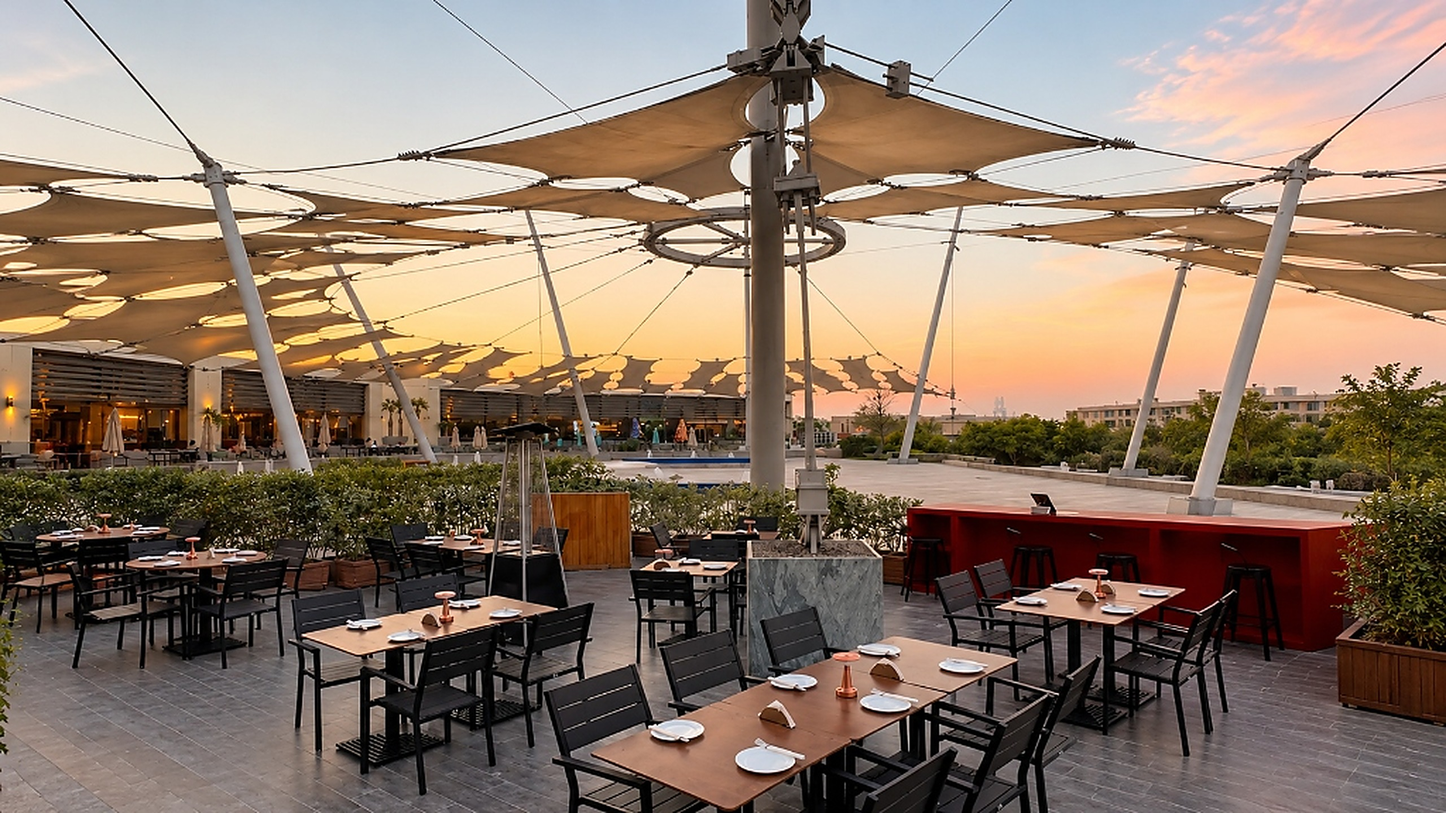
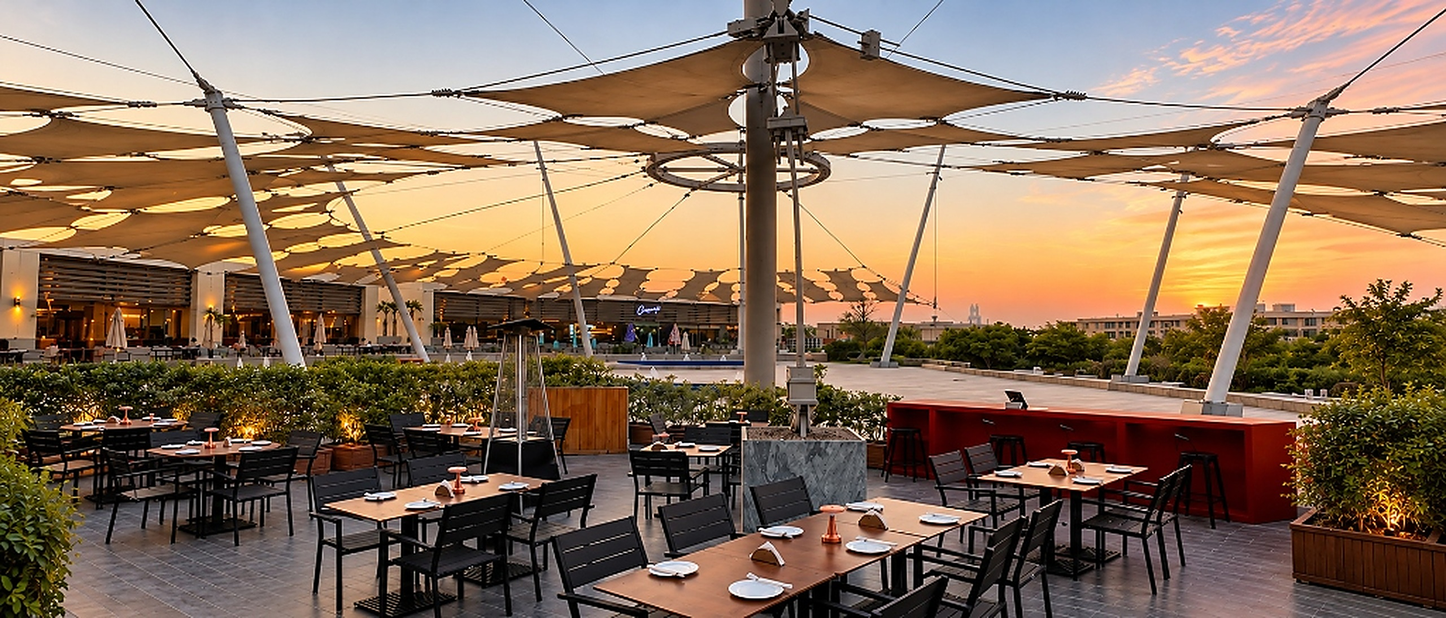
insta feed integration

diff --git a/gallery.html b/gallery.html
@@ -183,7 +183,7 @@
     <section class="relative min-h-[480px] pt-24 pb-12 px-5 bg-black text-[#f5e6c8] flex flex-col items-center">
         <div class="absolute inset-0 z-0">
             <picture>
-                <source media="(min-width: 768px)" srcset="gallery/gallery-hero-desktop.webp">
+                <source media="(min-width: 768px)" srcset="gallery/gallery-hero-desktop.webp?v=2">
                 <img alt="Gallery hero" class="h-full w-full object-cover" decoding="async"
                     src="gallery/ambience15.webp" />
             </picture>

diff --git a/gallery.php b/gallery.php
@@ -192,7 +192,7 @@ function fix_image_path($path) {
     <section class="relative min-h-[480px] pt-24 pb-12 px-5 bg-black text-[#f5e6c8] flex flex-col items-center">
         <div class="absolute inset-0 z-0">
             <picture>
-                <source media="(min-width: 768px)" srcset="gallery/gallery-hero-desktop.webp">
+                <source media="(min-width: 768px)" srcset="gallery/gallery-hero-desktop.webp?v=2">
                 <img alt="Gallery hero" class="h-full w-full object-cover" decoding="async"
                     src="gallery/ambience15.webp" />
             </picture>
